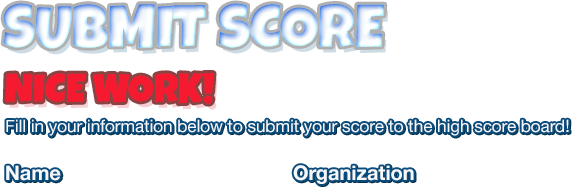
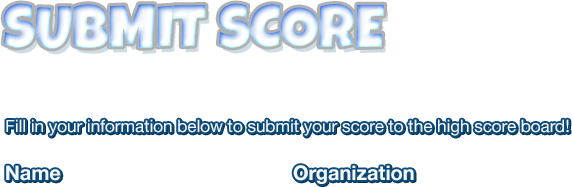
Added points on submit, Fixed swaying targets, Fixed Game Over! text to match rest of game

Changed region(s): [[0.0, 0.3743, 0.3864, 0.5882]]

diff --git a/client-side/javascripts/views/gameplay/GamePlayView.js b/client-side/javascripts/views/gameplay/GamePlayView.js
@@ -157,7 +157,7 @@ var GamePlayView = View.extend({
     }
 
     $('#canvas').on( 'mousemove', this.onMouseMove )
-    
+
   },
 
 
@@ -387,24 +387,52 @@ var GamePlayView = View.extend({
       target.scurryAway()
     })
 
-    var gameOverBitmap = Easel.createBitmap( 'txt-game-over', {x: 210, y:206} )
+    // var gameOverBitmap = Easel.createBitmap( 'txt-game-over', {x: 210, y:206} )
 
-    // Animate our game over screen in, then do something else
-    this.stage.addChild( gameOverBitmap )
+    // // Animate our game over screen in, then do something else
+    // this.stage.addChild( gameOverBitmap )
+
+    var gameOverText = new Easel.Text({
+      text: 'Game Over!',
+      font: 'Luckiest Guy',
+      size: '79px',
+      color: '#ff0000',
+
+      stroke: {
+        size: 7,
+        color: '#333'
+      },
+
+      position: {
+        x: AppConfig.DIMENSIONS.width * .5,
+        y: 1000,
+      }
+    })
+
+    gameOverText.textAlign('center')
+    this.stage.addChild( gameOverText.container )
 
     var self = this
 
-    T.fromTo(gameOverBitmap, .3, { y: 450 }, {
-      y: 250,
-      ease: Back.easeOut,
-      onComplete: function(){
+    T.fromTo( gameOverText.container, .5, { y: -1000 }, {
+      y: AppConfig.DIMENSIONS.height * .5,
+      ease: Expo.easeOut,
 
-        // Slight delay and then kill the gameover
-        setTimeout(function() {
-          self.removeGameOver( gameOverBitmap )
-        },
-          3000
-        )
+      onComplete: function () {
+
+        T.to( gameOverText.container, .3, {
+          y: 1000,
+          ease: Expo.easeIn,
+          delay: 3,
+
+          onComplete: function () {
+            self.stage.removeChild( this.target )
+
+            setTimeout(function() {
+              window.location.hash = '#/submit-score'
+            }, 500)
+          }
+        })
       }
     })
 
@@ -549,7 +577,7 @@ var GamePlayView = View.extend({
 
       stroke: {
         size: 7,
-        color: '#666'
+        color: '#333'
       },
 
       position: {

diff --git a/client-side/javascripts/views/submitscore/SubmitScoreView.js b/client-side/javascripts/views/submitscore/SubmitScoreView.js
@@ -17,8 +17,26 @@ var SubmitScoreView = View.extend({
   initialize: function (options) {
     this._super(options)
 
+    this.powerUpText = new Easel.Text({
+      text: 'Nice Work!  You scored 1800 points',
+      font: 'Luckiest Guy',
+      size: '39px',
+      color: '#ff0000',
+
+      stroke: {
+        size: 3,
+        color: '#333'
+      },
+
+      position: {
+        x: 159,
+        y: 122,
+      }
+    })
+
     this.children = [
       Easel.createSprite('miscSprite', 'submit-text', { x: 152, y: 53 }),
+      this.powerUpText.container
     ]
   },
 
@@ -27,6 +45,8 @@ var SubmitScoreView = View.extend({
   render: function () {
     this._super()
     this.returnData()
+
+    this.powerUpText.setText( "Nice Work!  You scored " + this.appModel.get( 'score' ) + " points" )
 
     this.$form = $('<div id="submit-score" />').appendTo('#game-canvas')
 

diff --git a/client-side/javascripts/views/gameplay/Target.js b/client-side/javascripts/views/gameplay/Target.js
@@ -44,7 +44,7 @@ var Target = View.extend({
    * The distance that good targets move to avoid hits
    * @type {Number}
    */
-  TARGET_AVOID_DISTANCE: 100,
+  TARGET_AVOID_DISTANCE: 150,
 
 
   /**
@@ -454,7 +454,7 @@ var Target = View.extend({
         T.to( this.target, .8, {
           x: self.startX - self.TARGET_AVOID_DISTANCE,
           ease: Expo.easeOut,
-          delay: 2,
+          delay: 1.5,
 
           onComplete: function() {
             self.panTarget()
